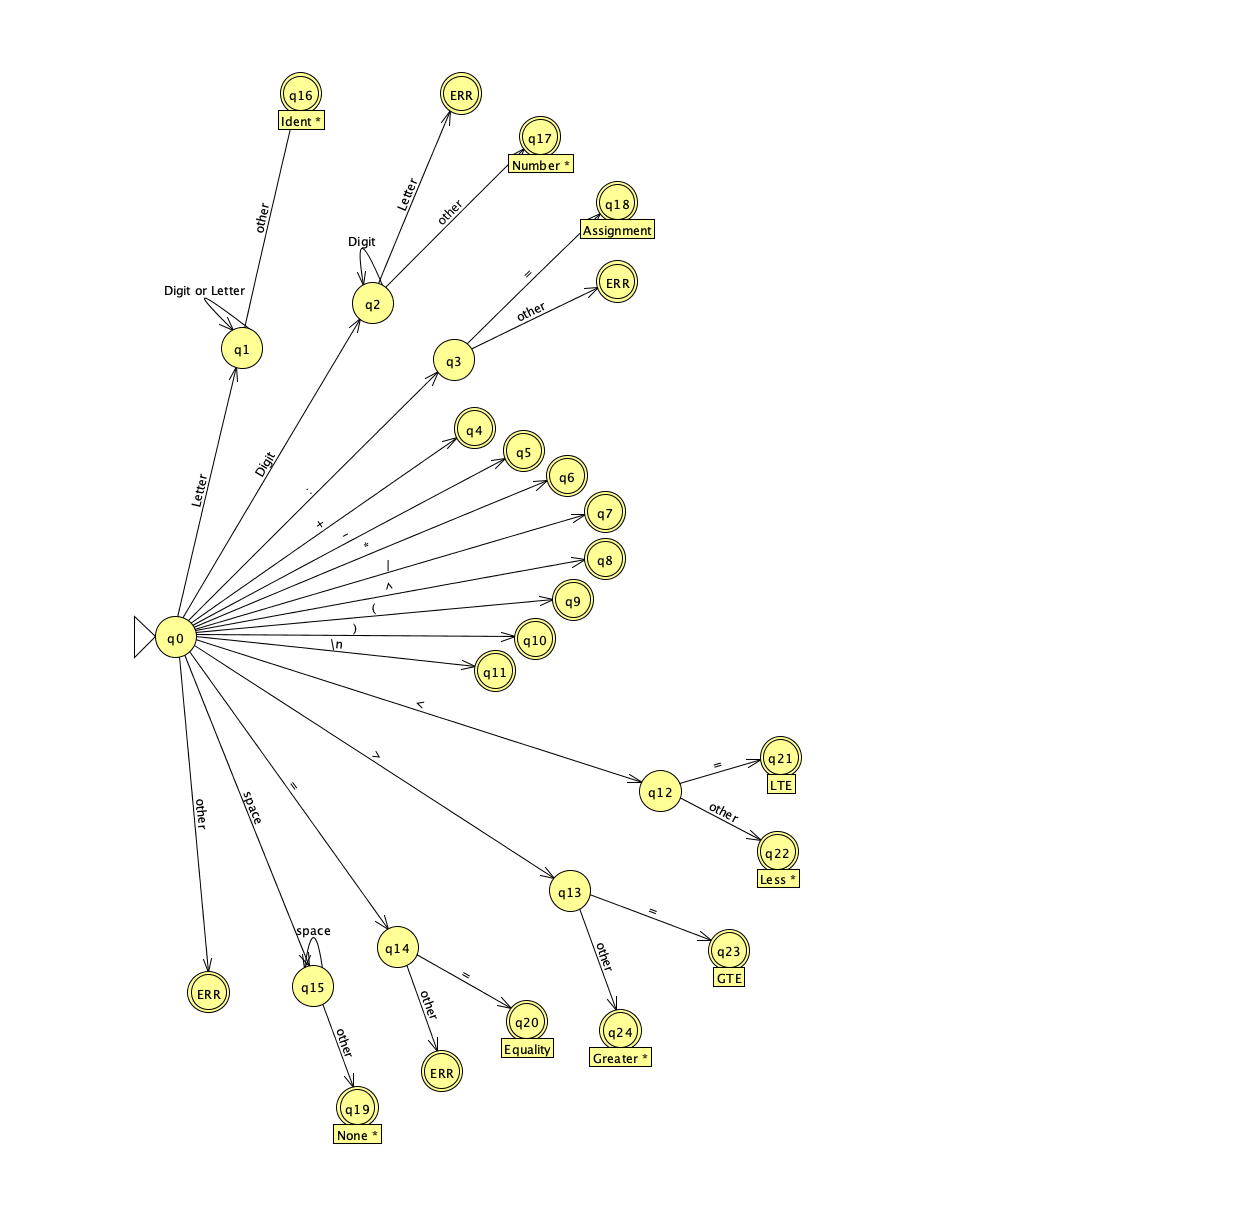
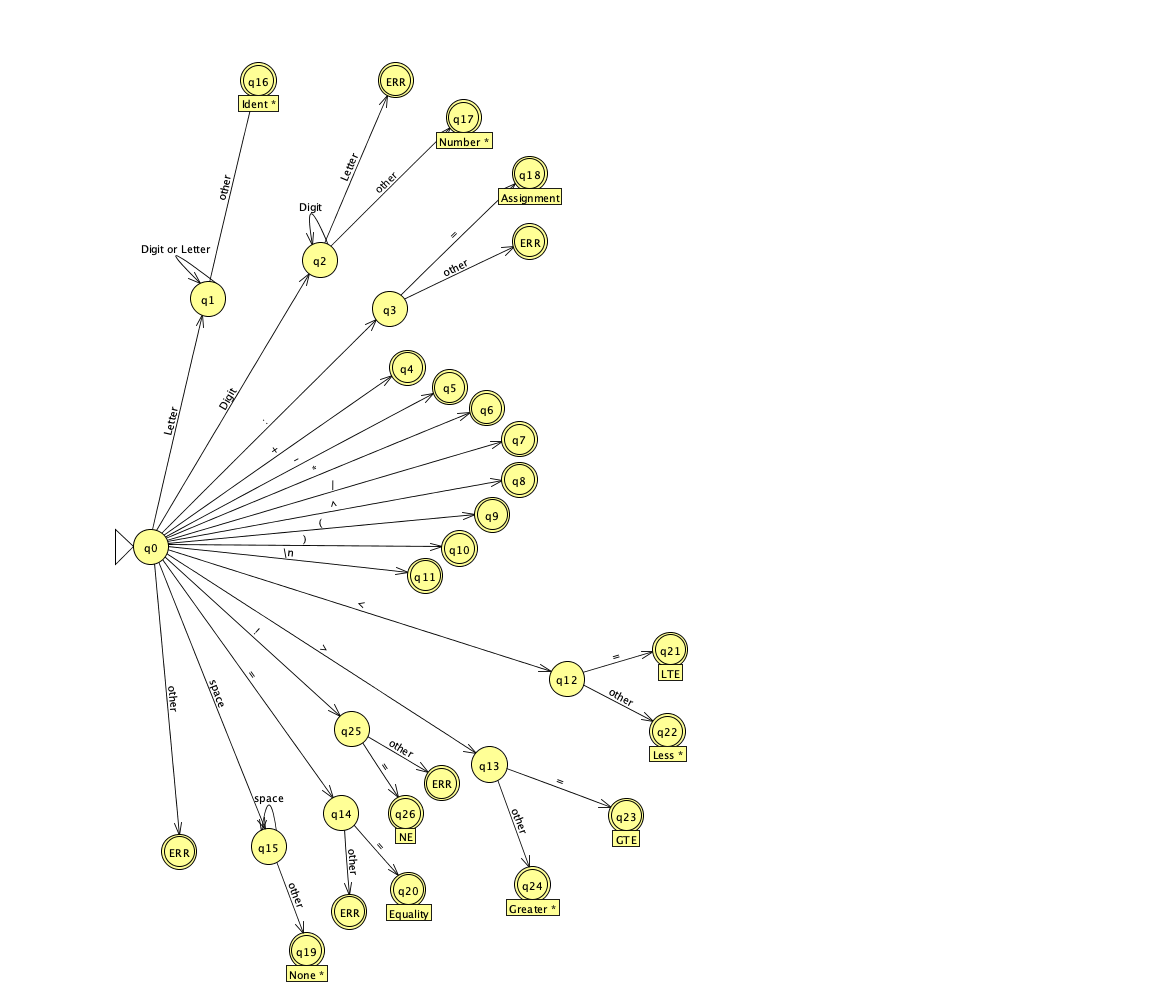
Fixes and improvements

diff --git a/pannkotsky-lang/source/rpn.py b/pannkotsky-lang/source/rpn.py
@@ -9,7 +9,10 @@ def generate_label_name():
 
 def _get_next_index(index, tokens_map):
     max_index = max(tokens_map.keys())
-    if index >= max_index:
+    if index == max_index:
+        return index + 1
+
+    if index > max_index:
         raise KeyError
 
     try:
@@ -178,7 +181,10 @@ class RPNBuilder:
 
         indexes_list = sorted(tokens_map.keys())
         for label, value in labels_map.items():
-            labels_map[label] = str(indexes_list.index(value))
+            try:
+                labels_map[label] = str(indexes_list.index(value))
+            except ValueError:
+                labels_map[label] = str(len(indexes_list))
 
         for index, token in tokens_map.items():
             if token in labels_map:

diff --git a/pannkotsky-lang/source/states.py b/pannkotsky-lang/source/states.py
@@ -64,6 +64,7 @@ class State0(State):
         '>': 13,
         '=': 14,
         ' ': 15,
+        '!': 25,
     }
 
     @classmethod
@@ -236,6 +237,21 @@ class State24(FinalStateWithReturn):
     index = 24
 
 
+class State25(State):
+    """ Inequality in progress """
+    index = 25
+
+    @classmethod
+    def _get_next_state(cls, c):
+        if c == '=':
+            return 26
+
+
+class State26(FinalState):
+    """ Inequality completed """
+    index = 26
+
+
 states_map = {
     0: State0,
     1: State1,
@@ -262,6 +278,8 @@ states_map = {
     22: State22,
     23: State23,
     24: State24,
+    25: State25,
+    26: State26,
 }
 
 final_state_token_type_map = {

diff --git a/pannkotsky-lang/source/syntax.py b/pannkotsky-lang/source/syntax.py
@@ -133,7 +133,7 @@ class SyntaxAnalyzer:
         return total_processed
 
     def logical_operation(self, tokens: ScanTokens) -> int:
-        return self.check_token(tokens, ['<', '>', '<=', '>=', '=='])
+        return self.check_token(tokens, ['<', '>', '<=', '>=', '==', '!='])
 
     def condition(self, tokens: ScanTokens) -> int:
         total_processed = 0

diff --git a/examples/test.py b/examples/test.py
@@ -1,0 +1,11 @@
+a = 15 + (7 * 5) ** 2
+b = a // 20 - 13
+if b < 200:
+    b += 50
+    print(b)
+    while b <= 250:
+        b += 50
+        print(b)
+
+print(a)
+print(b)
